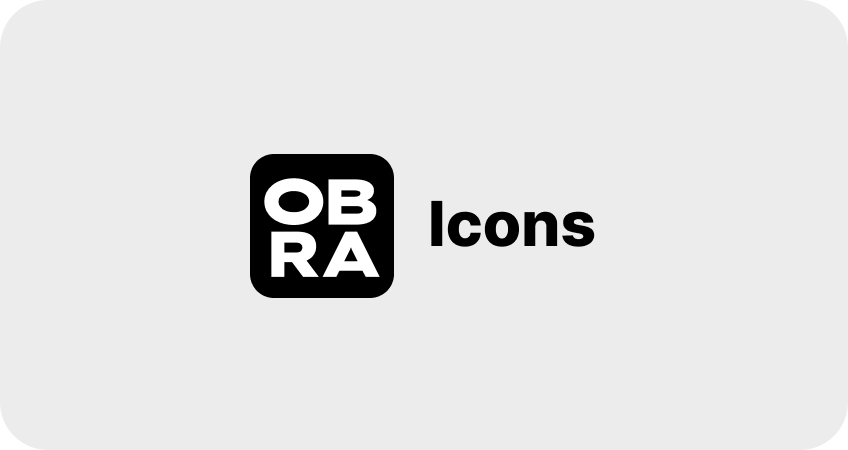
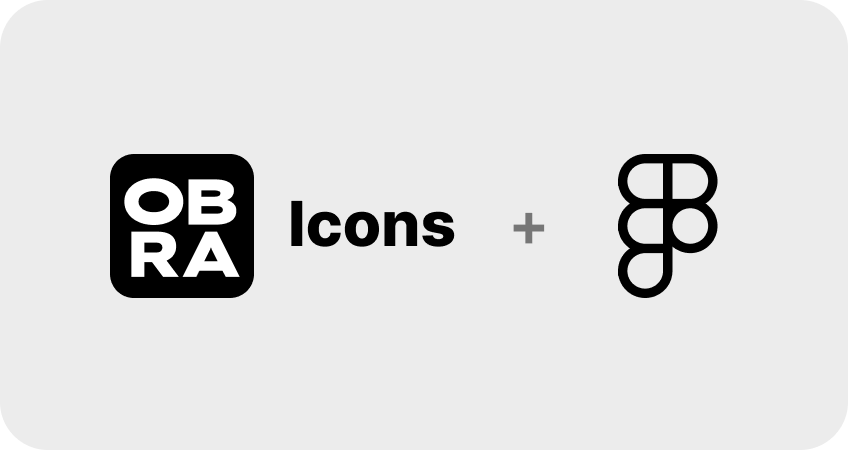
feat - updatwe offering for 1.5

Changed region(s): [[0.1226, 0.3422, 0.8585, 0.6844]]

diff --git a/packages/obra-icons-svelte/src/routes/+page.svelte b/packages/obra-icons-svelte/src/routes/+page.svelte
@@ -139,21 +139,16 @@
 
 			<div class="column">
 				<div class="content">
-					<h2>Buy the source files</h2>
-
-					<ul>
-						<li>
-							SVG files with both outlined and non-outlined
-							vectors for further customization
-						</li>
-						<li>
-							<code>.fig</code> file for direct import into Figma
-						</li>
-					</ul>
-
+					<h2>Buy the Figma source file</h2>
+					<p>Buy the source file for direct import into Figma.</p>
+					<p>
+						This file contains the original vectors, and its
+						categorized into different categories. You can use this
+						file to extend Obra Icons to fit your own design system.
+					</p>
 					<div class="button-group">
 						<a class="button" href="https://sowl.co/s/bdgsNv">
-							<span>Buy the files</span>
+							<span>Buy the file</span>
 							<IconArrowRight />
 						</a>
 					</div>
